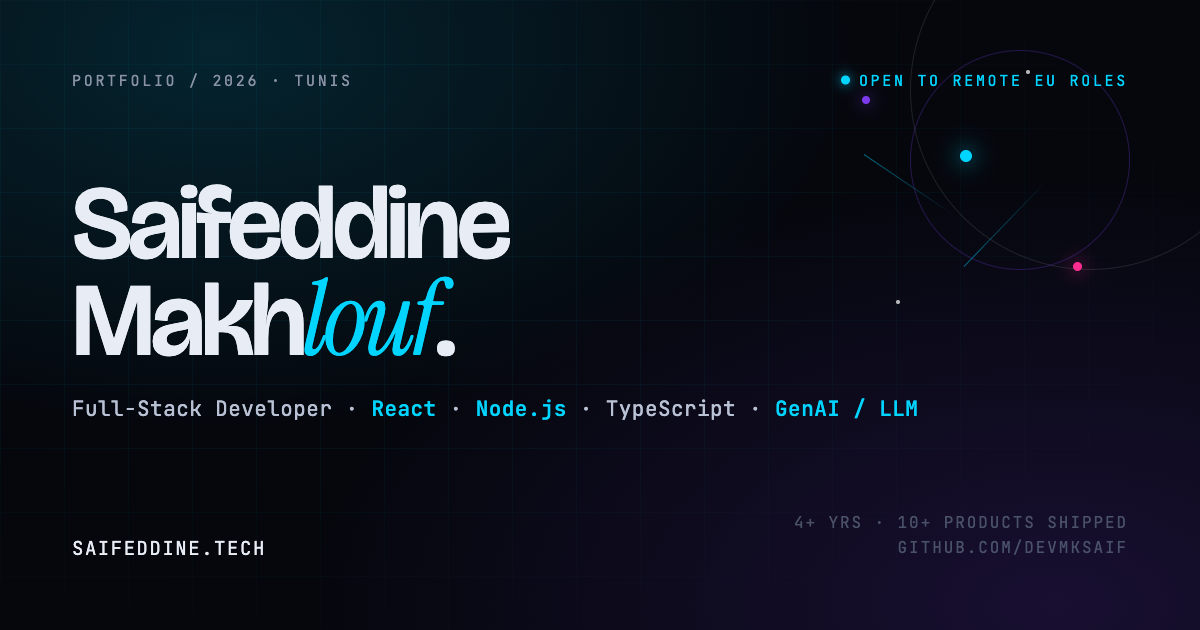
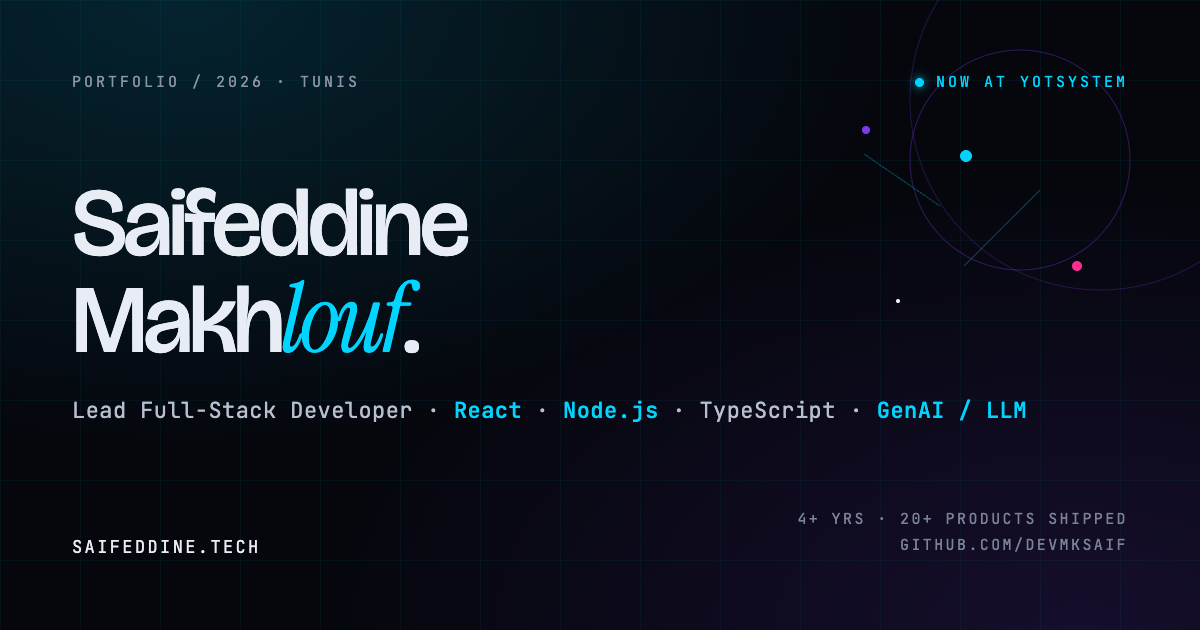
Use Lead Full-Stack Developer title and refresh share image
Update the title on the English and French pages, metadata, structured data,
feed, sitemaps, manifest and both CVs. Freelance and internship titles stay
as they were.

Recreate og-cover.png, which still said "Open to remote EU roles": it now
shows the Lead title, "Now at YOTSYSTEM" and 20+ products. Version the image
URL so link-preview caches pick it up.

diff --git a/index.html b/index.html
@@ -11,9 +11,9 @@
 <meta name="theme-color" content="#05070d" />
 
 <!-- ===== Primary SEO ===== -->
-<title>Saifeddine Makhlouf — Full-Stack Developer · React, Node.js &amp; GenAI/LLM</title>
-<meta name="description" content="Saifeddine Makhlouf — Full-Stack Developer with 4+ years shipping production React + Node.js + TypeScript applications and GenAI / LLM systems for international clients. Currently at YOTSYSTEM, building AI-powered yacht management." />
-<meta name="keywords" content="Saifeddine Makhlouf, Saif Makhlouf, devmksaif, Full-Stack Developer Tunisia, Node.js engineer, TypeScript, Next.js, NestJS, Vue.js, Remix, Go, Laravel, Python, GenAI developer, LLM integration, OpenAI GPT-4, Gemini, DeepSeek, LangChain, LangGraph, RAG, multi-agent systems, LLVM, compilers, C++, React Native, Flutter, WebSockets, microservices, YOTSYSTEM, MagicScript, Calliverse, JuliaBot, CraftGent, Blink Delivery, IEEE AI Challenge winner" />
+<title>Saifeddine Makhlouf — Lead Full-Stack Developer · React, Node.js &amp; GenAI/LLM</title>
+<meta name="description" content="Saifeddine Makhlouf — Lead Full-Stack Developer with 4+ years shipping production React + Node.js + TypeScript applications and GenAI / LLM systems for international clients. Currently at YOTSYSTEM, building AI-powered yacht management." />
+<meta name="keywords" content="Saifeddine Makhlouf, Saif Makhlouf, devmksaif, Lead Full-Stack Developer, Full-Stack Developer Tunisia, Node.js engineer, TypeScript, Next.js, NestJS, Vue.js, Remix, Go, Laravel, Python, GenAI developer, LLM integration, OpenAI GPT-4, Gemini, DeepSeek, LangChain, LangGraph, RAG, multi-agent systems, LLVM, compilers, C++, React Native, Flutter, WebSockets, microservices, YOTSYSTEM, MagicScript, Calliverse, JuliaBot, CraftGent, Blink Delivery, IEEE AI Challenge winner" />
 <meta name="author" content="Saifeddine Makhlouf" />
 <meta name="creator" content="Saifeddine Makhlouf" />
 <meta name="publisher" content="Saifeddine Makhlouf" />
@@ -47,17 +47,17 @@
 <!-- ===== Open Graph (Facebook, LinkedIn, WhatsApp, Slack…) ===== -->
 <meta property="og:type" content="profile" />
 <meta property="og:site_name" content="Saifeddine Makhlouf — Portfolio" />
-<meta property="og:title" content="Saifeddine Makhlouf — Full-Stack Developer · React, Node.js &amp; GenAI" />
+<meta property="og:title" content="Saifeddine Makhlouf — Lead Full-Stack Developer · React, Node.js &amp; GenAI" />
 <meta property="og:description" content="4+ years shipping production React + Node.js + TypeScript apps &amp; GenAI / LLM systems. Currently at YOTSYSTEM, building AI-powered yacht management." />
 <meta property="og:url" content="https://saifeddine.tech/" />
 <meta property="og:locale" content="en_US" />
 <meta property="og:locale:alternate" content="fr_FR" />
-<meta property="og:image" content="https://saifeddine.tech/og-cover.png" />
-<meta property="og:image:secure_url" content="https://saifeddine.tech/og-cover.png" />
+<meta property="og:image" content="https://saifeddine.tech/og-cover.png?v=20261105" />
+<meta property="og:image:secure_url" content="https://saifeddine.tech/og-cover.png?v=20261105" />
 <meta property="og:image:type" content="image/png" />
 <meta property="og:image:width" content="1200" />
 <meta property="og:image:height" content="630" />
-<meta property="og:image:alt" content="Saifeddine Makhlouf — Full-Stack Developer. A constellation of project nodes on a deep space backdrop." />
+<meta property="og:image:alt" content="Saifeddine Makhlouf — Lead Full-Stack Developer. A constellation of project nodes on a deep space backdrop." />
 <meta property="profile:first_name" content="Saifeddine" />
 <meta property="profile:last_name" content="Makhlouf" />
 <meta property="profile:username" content="devmksaif" />
@@ -67,9 +67,9 @@
 <meta name="twitter:card" content="summary_large_image" />
 <meta name="twitter:site" content="@devmksaif" />
 <meta name="twitter:creator" content="@devmksaif" />
-<meta name="twitter:title" content="Saifeddine Makhlouf — Full-Stack Developer" />
+<meta name="twitter:title" content="Saifeddine Makhlouf — Lead Full-Stack Developer" />
 <meta name="twitter:description" content="React · Node.js · TypeScript · GenAI / LLM. Currently at YOTSYSTEM, building AI-powered yacht management." />
-<meta name="twitter:image" content="https://saifeddine.tech/og-cover.png" />
+<meta name="twitter:image" content="https://saifeddine.tech/og-cover.png?v=20261105" />
 <meta name="twitter:image:alt" content="Saifeddine Makhlouf — Three.js portfolio cover" />
 
 <!-- ===== Apple / PWA ===== -->
@@ -121,8 +121,8 @@
   "alternateName": ["Saif Makhlouf", "devmksaif"],
   "givenName": "Saifeddine",
   "familyName": "Makhlouf",
-  "jobTitle": "Full-Stack Developer",
-  "description": "Full-Stack Developer with 4+ years shipping production React + Node.js + TypeScript applications and GenAI / LLM systems for international clients. Currently at YOTSYSTEM, building AI-powered yacht management.",
+  "jobTitle": "Lead Full-Stack Developer",
+  "description": "Lead Full-Stack Developer with 4+ years shipping production React + Node.js + TypeScript applications and GenAI / LLM systems for international clients. Currently at YOTSYSTEM, building AI-powered yacht management.",
   "image": "https://saifeddine.tech/og-cover.png",
   "url": "https://saifeddine.tech/",
   "email": "mailto:saifeddine.ben.makhlouf@gmail.com",
@@ -181,7 +181,7 @@
   "@id": "https://saifeddine.tech/#website",
   "url": "https://saifeddine.tech/",
   "name": "Saifeddine Makhlouf — Portfolio",
-  "description": "Three.js-driven portfolio of Saifeddine Makhlouf, Full-Stack Developer.",
+  "description": "Three.js-driven portfolio of Saifeddine Makhlouf, Lead Full-Stack Developer.",
   "inLanguage": ["en", "fr"],
   "publisher": { "@id": "https://saifeddine.tech/#person" },
   "potentialAction": {
@@ -199,7 +199,7 @@
   "@type": "WebPage",
   "@id": "https://saifeddine.tech/#webpage",
   "url": "https://saifeddine.tech/",
-  "name": "Saifeddine Makhlouf — Full-Stack Developer",
+  "name": "Saifeddine Makhlouf — Lead Full-Stack Developer",
   "isPartOf": { "@id": "https://saifeddine.tech/#website" },
   "about": { "@id": "https://saifeddine.tech/#person" },
   "primaryImageOfPage": {
@@ -314,7 +314,7 @@
     {
       "@type": "Question",
       "name": "Who is Saifeddine Makhlouf?",
-      "acceptedAnswer": { "@type": "Answer", "text": "Saifeddine Makhlouf is a Full-Stack Developer based in Tunis, Tunisia, with 4+ years of experience shipping production React + Node.js + TypeScript applications and GenAI / LLM systems for international clients. He has been a Full-Stack Developer at YOTSYSTEM since January 2026. He is an ISET Djerba honors graduate (2026)." }
+      "acceptedAnswer": { "@type": "Answer", "text": "Saifeddine Makhlouf is a Lead Full-Stack Developer based in Tunis, Tunisia, with 4+ years of experience shipping production React + Node.js + TypeScript applications and GenAI / LLM systems for international clients. He has been a Lead Full-Stack Developer at YOTSYSTEM since January 2026. He is an ISET Djerba honors graduate (2026)." }
     },
     {
       "@type": "Question",
@@ -348,7 +348,7 @@
 
 <!-- Hidden microdata stamps for crawlers (visual: hidden) -->
 <meta itemprop="name" content="Saifeddine Makhlouf" />
-<meta itemprop="jobTitle" content="Full-Stack Developer" />
+<meta itemprop="jobTitle" content="Lead Full-Stack Developer" />
 <meta itemprop="url" content="https://saifeddine.tech/" />
 <meta itemprop="email" content="saifeddine.ben.makhlouf@gmail.com" />
 <meta itemprop="telephone" content="+216-20-099-922" />
@@ -390,13 +390,13 @@
   </h1>
 
   <div class="tagline">
-    Full-Stack Developer · 4+ years shipping production <span>React + Node.js</span> apps &amp; <span>GenAI / LLM</span> systems for international clients. Now building <span>AI-powered yacht management</span> at <span>YOTSYSTEM</span>.<br/><br/>
+    Lead Full-Stack Developer · 4+ years shipping production <span>React + Node.js</span> apps &amp; <span>GenAI / LLM</span> systems for international clients. Now building <span>AI-powered yacht management</span> at <span>YOTSYSTEM</span>.<br/><br/>
     <span>"</span>Ship real products. Measure what they change.<span>"</span>
   </div>
 
   <div class="role-card">
     <div class="label">▸ Currently</div>
-    <div><strong>Full-Stack Developer · YOTSYSTEM</strong></div>
+    <div><strong>Lead Full-Stack Developer · YOTSYSTEM</strong></div>
     <div>AI-powered yacht management · Hybrid</div>
     <div style="margin-top:10px;color:var(--ink-faint)">React · Node.js · TypeScript · React Native · PostgreSQL · GenAI</div>
     <a class="cta primary" href="#contact"><span>Contact me</span><span class="arrow">→</span></a>
@@ -418,7 +418,7 @@
       <h2>Builder of <span class="italic">production</span> products &amp; GenAI systems.</h2>
     </div>
     <div>
-      <p class="lede">Full-stack developer with 4+ years shipping production React + Node.js applications and GenAI / LLM systems for international clients.</p>
+      <p class="lede">Lead full-stack developer with 4+ years shipping production React + Node.js applications and GenAI / LLM systems for international clients.</p>
       <p>Built and deployed 20+ products — including a multi-channel chatbot SaaS serving 1,000+ users across 700+ businesses (100,000+ messages/month), and two React Native apps live on Google Play. Comfortable owning a feature end to end: TypeScript front-ends, Node.js/Express and NestJS services, PostgreSQL and MongoDB data, and the LLM layer on top.</p>
       <p>ISET Djerba honors graduate (2026). Shipping platform features at YOTSYSTEM since January 2026, across web, mobile, and GenAI.</p>
 
@@ -582,7 +582,7 @@
     <div class="exp">
       <div class="when">JAN 2026 <span class="now">— NOW</span></div>
       <div>
-        <h3 class="role">Full-Stack Developer</h3>
+        <h3 class="role">Lead Full-Stack Developer</h3>
         <div class="company">YOTSYSTEM <span class="loc">· Tunis, Tunisia (Hybrid)</span></div>
         <div class="blurb">Maritime tech company delivering AI-powered yacht management and digital transformation solutions.</div>
         <ul class="bullets">
@@ -951,7 +951,7 @@
   <div class="contact-grid">
     <div>
       <p class="pitch">
-        Currently a <span>Full-Stack Developer</span> at <span>YOTSYSTEM</span>, shipping platform features for AI-powered yacht management.<br/><br/>
+        Currently a <span>Lead Full-Stack Developer</span> at <span>YOTSYSTEM</span>, shipping platform features for AI-powered yacht management.<br/><br/>
         I'm most excited by product teams shipping real features end to end: <span>React + Node.js</span>, clean TypeScript, and a <span>GenAI / LLM</span> layer that actually earns its keep. If you're working on something similar, <span>let's talk</span>.
       </p>
 
@@ -994,8 +994,8 @@
 
 <!-- ===== SEO content (visually hidden, crawler-readable) ===== -->
 <aside class="sr-only" aria-hidden="true" style="position:absolute;left:-9999px;top:0;width:1px;height:1px;overflow:hidden">
-  <h2>Saifeddine Makhlouf — Full-Stack Developer · Tunis, Tunisia</h2>
-  <p>Saifeddine Makhlouf (also known as Saif Makhlouf or devmksaif) is a Full-Stack Developer based in Tunis, Tunisia, with 4+ years of experience shipping production React + Node.js + TypeScript applications and GenAI / LLM systems for international clients. Since January 2026 he has been building platform features at YOTSYSTEM, a maritime tech company delivering AI-powered yacht management. He is an ISET Djerba honors graduate (2026).</p>
+  <h2>Saifeddine Makhlouf — Lead Full-Stack Developer · Tunis, Tunisia</h2>
+  <p>Saifeddine Makhlouf (also known as Saif Makhlouf or devmksaif) is a Lead Full-Stack Developer based in Tunis, Tunisia, with 4+ years of experience shipping production React + Node.js + TypeScript applications and GenAI / LLM systems for international clients. Since January 2026 he has been building platform features at YOTSYSTEM, a maritime tech company delivering AI-powered yacht management. He is an ISET Djerba honors graduate (2026).</p>
   <h3>Featured projects</h3>
   <ul>
     <li>CraftGent — multi-channel GenAI chatbot SaaS with OpenAI GPT-4 and Gemini, serving 1,000+ users across 700+ businesses (100,000+ messages/month).</li>

diff --git a/fr/index.html b/fr/index.html
@@ -10,9 +10,9 @@
 <meta name="theme-color" content="#05070d" />
 
 <!-- ===== Primary SEO ===== -->
-<title>Saifeddine Makhlouf — Développeur Full-Stack · React, Node.js &amp; GenAI/LLM</title>
-<meta name="description" content="Saifeddine Makhlouf — Développeur Full-Stack avec 4+ ans à livrer des applications React + Node.js + TypeScript en production et des systèmes GenAI / LLM pour des clients internationaux. Actuellement chez YOTSYSTEM, sur la gestion de yachts par IA." />
-<meta name="keywords" content="Saifeddine Makhlouf, développeur full-stack, développeur React, développeur Node.js, TypeScript, Next.js, NestJS, Vue.js, Remix, Go, Laravel, Python, développeur GenAI, intégration LLM, OpenAI GPT-4, Gemini, DeepSeek, LangChain, LangGraph, RAG, LLVM, compilateurs, C++, React Native, Flutter, YOTSYSTEM, MagicScript, Calliverse, JuliaBot, CraftGent, Blink Delivery" />
+<title>Saifeddine Makhlouf — Développeur Full-Stack Lead · React, Node.js &amp; GenAI/LLM</title>
+<meta name="description" content="Saifeddine Makhlouf — Développeur Full-Stack Lead avec 4+ ans à livrer des applications React + Node.js + TypeScript en production et des systèmes GenAI / LLM pour des clients internationaux. Actuellement chez YOTSYSTEM, sur la gestion de yachts par IA." />
+<meta name="keywords" content="Saifeddine Makhlouf, développeur full-stack lead, développeur full-stack, développeur React, développeur Node.js, TypeScript, Next.js, NestJS, Vue.js, Remix, Go, Laravel, Python, développeur GenAI, intégration LLM, OpenAI GPT-4, Gemini, DeepSeek, LangChain, LangGraph, RAG, LLVM, compilateurs, C++, React Native, Flutter, YOTSYSTEM, MagicScript, Calliverse, JuliaBot, CraftGent, Blink Delivery" />
 <meta name="author" content="Saifeddine Makhlouf" />
 <meta name="robots" content="index, follow, max-image-preview:large, max-snippet:-1" />
 <meta name="language" content="French" />
@@ -31,22 +31,22 @@
 <!-- ===== Open Graph ===== -->
 <meta property="og:type" content="profile" />
 <meta property="og:site_name" content="Saifeddine Makhlouf — Portfolio" />
-<meta property="og:title" content="Saifeddine Makhlouf — Développeur Full-Stack · React, Node.js &amp; GenAI" />
+<meta property="og:title" content="Saifeddine Makhlouf — Développeur Full-Stack Lead · React, Node.js &amp; GenAI" />
 <meta property="og:description" content="4+ ans à livrer des applications React + Node.js + TypeScript en production &amp; des systèmes GenAI / LLM. Actuellement chez YOTSYSTEM, sur la gestion de yachts par IA." />
 <meta property="og:url" content="https://saifeddine.tech/fr/" />
 <meta property="og:locale" content="fr_FR" />
 <meta property="og:locale:alternate" content="en_US" />
-<meta property="og:image" content="https://saifeddine.tech/og-cover.png" />
+<meta property="og:image" content="https://saifeddine.tech/og-cover.png?v=20261105" />
 <meta property="og:image:width" content="1200" />
 <meta property="og:image:height" content="630" />
-<meta property="og:image:alt" content="Saifeddine Makhlouf — Développeur Full-Stack. Une constellation de nœuds de projets sur un fond spatial." />
+<meta property="og:image:alt" content="Saifeddine Makhlouf — Développeur Full-Stack Lead. Une constellation de nœuds de projets sur un fond spatial." />
 
 <!-- ===== Twitter / X ===== -->
 <meta name="twitter:card" content="summary_large_image" />
 <meta name="twitter:creator" content="@devmksaif" />
-<meta name="twitter:title" content="Saifeddine Makhlouf — Développeur Full-Stack" />
+<meta name="twitter:title" content="Saifeddine Makhlouf — Développeur Full-Stack Lead" />
 <meta name="twitter:description" content="React · Node.js · TypeScript · GenAI / LLM. Actuellement chez YOTSYSTEM, sur la gestion de yachts par IA." />
-<meta name="twitter:image" content="https://saifeddine.tech/og-cover.png" />
+<meta name="twitter:image" content="https://saifeddine.tech/og-cover.png?v=20261105" />
 
 <!-- ===== Icons &amp; Manifest ===== -->
 <link rel="icon" type="image/svg+xml" href="/favicon.svg" />
@@ -82,8 +82,8 @@
   "alternateName": ["Saif Makhlouf", "devmksaif"],
   "givenName": "Saifeddine",
   "familyName": "Makhlouf",
-  "jobTitle": "Développeur Full-Stack",
-  "description": "Développeur Full-Stack avec 4+ ans à livrer des applications React + Node.js + TypeScript en production et des systèmes GenAI / LLM pour des clients internationaux. Actuellement chez YOTSYSTEM, sur la gestion de yachts par IA.",
+  "jobTitle": "Développeur Full-Stack Lead",
+  "description": "Développeur Full-Stack Lead avec 4+ ans à livrer des applications React + Node.js + TypeScript en production et des systèmes GenAI / LLM pour des clients internationaux. Actuellement chez YOTSYSTEM, sur la gestion de yachts par IA.",
   "image": "https://saifeddine.tech/og-cover.png",
   "url": "https://saifeddine.tech/fr/",
   "email": "mailto:saifeddine.ben.makhlouf@gmail.com",
@@ -116,7 +116,7 @@
   "@type": "WebPage",
   "@id": "https://saifeddine.tech/fr/#webpage",
   "url": "https://saifeddine.tech/fr/",
-  "name": "Saifeddine Makhlouf — Développeur Full-Stack",
+  "name": "Saifeddine Makhlouf — Développeur Full-Stack Lead",
   "isPartOf": { "@id": "https://saifeddine.tech/#website" },
   "about": { "@id": "https://saifeddine.tech/#person" },
   "inLanguage": "fr",
@@ -152,7 +152,7 @@
     {
       "@type": "Question",
       "name": "Qui est Saifeddine Makhlouf ?",
-      "acceptedAnswer": { "@type": "Answer", "text": "Saifeddine Makhlouf est un développeur full-stack basé à Tunis, en Tunisie, avec 4+ ans d'expérience à livrer des applications React + Node.js + TypeScript en production et des systèmes GenAI / LLM pour des clients internationaux. Il est développeur full-stack chez YOTSYSTEM depuis janvier 2026. Il est diplômé avec mention de l'ISET Djerba (2026)." }
+      "acceptedAnswer": { "@type": "Answer", "text": "Saifeddine Makhlouf est un développeur full-stack lead basé à Tunis, en Tunisie, avec 4+ ans d'expérience à livrer des applications React + Node.js + TypeScript en production et des systèmes GenAI / LLM pour des clients internationaux. Il est développeur full-stack lead chez YOTSYSTEM depuis janvier 2026. Il est diplômé avec mention de l'ISET Djerba (2026)." }
     },
     {
       "@type": "Question",
@@ -215,13 +215,13 @@
   </h1>
 
   <div class="tagline">
-    Développeur Full-Stack · 4+ ans à livrer des applications <span>React + Node.js</span> en production &amp; des systèmes <span>GenAI / LLM</span> pour des clients internationaux. Aujourd'hui, je développe la <span>gestion de yachts par IA</span> chez <span>YOTSYSTEM</span>.<br/><br/>
+    Développeur Full-Stack Lead · 4+ ans à livrer des applications <span>React + Node.js</span> en production &amp; des systèmes <span>GenAI / LLM</span> pour des clients internationaux. Aujourd'hui, je développe la <span>gestion de yachts par IA</span> chez <span>YOTSYSTEM</span>.<br/><br/>
     <span>«&nbsp;</span>Livrer de vrais produits. Mesurer ce qu'ils changent.<span>&nbsp;»</span>
   </div>
 
   <div class="role-card">
     <div class="label">▸ Actuellement</div>
-    <div><strong>Développeur Full-Stack · YOTSYSTEM</strong></div>
+    <div><strong>Développeur Full-Stack Lead · YOTSYSTEM</strong></div>
     <div>Gestion de yachts par IA · Hybride</div>
     <div style="margin-top:10px;color:var(--ink-faint)">React · Node.js · TypeScript · React Native · PostgreSQL · GenAI</div>
     <a class="cta primary" href="#contact"><span>Me contacter</span><span class="arrow">→</span></a>
@@ -243,7 +243,7 @@
       <h2>Créateur de <span class="italic">produits</span> en production &amp; de systèmes GenAI.</h2>
     </div>
     <div>
-      <p class="lede">Développeur full-stack avec 4+ ans d'expérience à livrer des applications React + Node.js en production et des systèmes GenAI / LLM pour des clients internationaux.</p>
+      <p class="lede">Développeur full-stack lead avec 4+ ans d'expérience à livrer des applications React + Node.js en production et des systèmes GenAI / LLM pour des clients internationaux.</p>
       <p>J'ai conçu et déployé plus de 20 produits — dont un SaaS de chatbot multicanal servant 1 000+ utilisateurs répartis sur 700+ entreprises (100 000+ messages/mois), et deux applications React Native disponibles sur Google Play. À l'aise pour prendre en charge une fonctionnalité de bout en bout : front-ends TypeScript, services Node.js/Express et NestJS, données PostgreSQL et MongoDB, et la couche LLM par-dessus.</p>
       <p>Diplômé avec mention de l'ISET Djerba (2026). Je développe des fonctionnalités plateforme chez YOTSYSTEM depuis janvier 2026, sur le web, le mobile et la GenAI.</p>
 
@@ -407,7 +407,7 @@
     <div class="exp">
       <div class="when">JANV 2026 <span class="now">— AUJOURD'HUI</span></div>
       <div>
-        <h3 class="role">Développeur Full-Stack</h3>
+        <h3 class="role">Développeur Full-Stack Lead</h3>
         <div class="company">YOTSYSTEM <span class="loc">· Tunis, Tunisie (Hybride)</span></div>
         <div class="blurb">Entreprise de tech maritime livrant des solutions de gestion de yachts par IA et de transformation numérique.</div>
         <ul class="bullets">
@@ -776,7 +776,7 @@
   <div class="contact-grid">
     <div>
       <p class="pitch">
-        Actuellement <span>Développeur Full-Stack</span> chez <span>YOTSYSTEM</span>, où je livre des fonctionnalités plateforme pour la gestion de yachts par IA.<br/><br/>
+        Actuellement <span>Développeur Full-Stack Lead</span> chez <span>YOTSYSTEM</span>, où je livre des fonctionnalités plateforme pour la gestion de yachts par IA.<br/><br/>
         Ce qui m'enthousiasme le plus : les équipes produit qui livrent de vraies fonctionnalités de bout en bout — <span>React + Node.js</span>, du TypeScript propre, et une couche <span>GenAI / LLM</span> qui apporte une vraie valeur. Si vous travaillez sur un projet similaire, <span>parlons-en</span>.
       </p>
 
@@ -819,8 +819,8 @@
 
 <!-- ===== Contenu SEO (masqué visuellement, lisible par les crawlers) ===== -->
 <aside class="sr-only" aria-hidden="true" style="position:absolute;left:-9999px;top:0;width:1px;height:1px;overflow:hidden">
-  <h2>Saifeddine Makhlouf — Développeur Full-Stack · Tunis, Tunisie</h2>
-  <p>Saifeddine Makhlouf (aussi connu sous Saif Makhlouf ou devmksaif) est un développeur full-stack basé à Tunis, en Tunisie, avec 4+ ans d'expérience à livrer des applications React + Node.js + TypeScript en production et des systèmes GenAI / LLM pour des clients internationaux. Depuis janvier 2026, il développe des fonctionnalités plateforme chez YOTSYSTEM, une entreprise de tech maritime. Il est diplômé avec mention de l'ISET Djerba (2026).</p>
+  <h2>Saifeddine Makhlouf — Développeur Full-Stack Lead · Tunis, Tunisie</h2>
+  <p>Saifeddine Makhlouf (aussi connu sous Saif Makhlouf ou devmksaif) est un développeur full-stack lead basé à Tunis, en Tunisie, avec 4+ ans d'expérience à livrer des applications React + Node.js + TypeScript en production et des systèmes GenAI / LLM pour des clients internationaux. Depuis janvier 2026, il développe des fonctionnalités plateforme chez YOTSYSTEM, une entreprise de tech maritime. Il est diplômé avec mention de l'ISET Djerba (2026).</p>
   <h3>Projets phares</h3>
   <ul>
     <li>CraftGent — SaaS de chatbot GenAI multicanal avec OpenAI GPT-4 et Gemini, servant 1 000+ utilisateurs sur 700+ entreprises (100 000+ messages/mois).</li>

diff --git a/sitemap.html b/sitemap.html
@@ -385,7 +385,7 @@
       <div class="num">SM</div>
       <ul>
         <li>Saifeddine Makhlouf</li>
-        <li>Full-Stack Developer</li>
+        <li>Lead Full-Stack Developer</li>
         <li>Tunis, Tunisia · UTC+1</li>
         <li>Languages: EN · FR · AR</li>
         <li><a href="humans.txt">/humans.txt</a></li>
@@ -455,7 +455,7 @@
     <span class="tag">&lt;xhtml:link</span> <span class="attr">rel</span>=<span class="val">"alternate"</span> <span class="attr">hreflang</span>=<span class="val">"x-default"</span> <span class="attr">href</span>=<span class="val">"…/"</span><span class="tag">/&gt;</span>
     <span class="tag">&lt;image:image&gt;</span>
       <span class="tag">&lt;image:loc&gt;</span><span class="val">…/og-cover.png</span><span class="tag">&lt;/image:loc&gt;</span>
-      <span class="tag">&lt;image:title&gt;</span><span class="val">Saifeddine Makhlouf — Full-Stack Developer</span><span class="tag">&lt;/image:title&gt;</span>
+      <span class="tag">&lt;image:title&gt;</span><span class="val">Saifeddine Makhlouf — Lead Full-Stack Developer</span><span class="tag">&lt;/image:title&gt;</span>
     <span class="tag">&lt;/image:image&gt;</span>
   <span class="tag">&lt;/url&gt;</span>
 

diff --git a/cv-src/cv-fr.tex b/cv-src/cv-fr.tex
@@ -4,12 +4,12 @@
 
 \begin{document}
 \cvheader{Saifeddine Makhlouf}
-  {Développeur Full-Stack | React, Node.js, TypeScript | GenAI / LLM et systèmes agentiques}
+  {Développeur Full-Stack Lead | React, Node.js, TypeScript | GenAI / LLM et systèmes agentiques}
   {Tunis, Tunisie | +216 20 099 922 | \href{mailto:saifeddine.ben.makhlouf@gmail.com}{saifeddine.ben.makhlouf@gmail.com} | \href{https://saifeddine.tech/fr/}{saifeddine.tech} | \href{https://github.com/devmksaif}{github.com/devmksaif}}
 
 \section{EXPÉRIENCE PROFESSIONNELLE}
 
-\role{Développeur Full-Stack, YOTSYSTEM (temps plein)}
+\role{Développeur Full-Stack Lead, YOTSYSTEM (temps plein)}
   {Janvier 2026 - Aujourd'hui | Tunis, Tunisie (hybride) | Gestion de yachts par IA et transformation numérique}
 \begin{itemize}
   \item Développement et prise en charge de fonctionnalités plateforme en React, NestJS, TypeScript et React Native au sein d'une équipe de 4 ingénieurs~: animation des sprints et relecture de 100~\% des pull requests.

diff --git a/cv-src/cv-en.tex b/cv-src/cv-en.tex
@@ -4,12 +4,12 @@
 
 \begin{document}
 \cvheader{Saifeddine Makhlouf}
-  {Full-Stack Developer | React, Node.js, TypeScript | GenAI / LLM and Agentic Systems}
+  {Lead Full-Stack Developer | React, Node.js, TypeScript | GenAI / LLM and Agentic Systems}
   {Tunis, Tunisia | +216 20 099 922 | \href{mailto:saifeddine.ben.makhlouf@gmail.com}{saifeddine.ben.makhlouf@gmail.com} | \href{https://saifeddine.tech}{saifeddine.tech} | \href{https://github.com/devmksaif}{github.com/devmksaif}}
 
 \section{PROFESSIONAL EXPERIENCE}
 
-\role{Full-Stack Developer, YOTSYSTEM (Full-time)}
+\role{Lead Full-Stack Developer, YOTSYSTEM (Full-time)}
   {January 2026 - Present | Tunis, Tunisia (Hybrid) | AI-powered yacht management and digital transformation}
 \begin{itemize}
   \item Build and own platform features across React, NestJS, TypeScript, and React Native in a 4-engineer team, running sprints and reviewing 100\% of pull requests.
